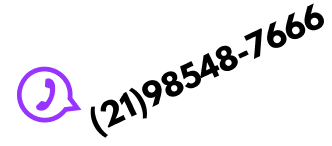
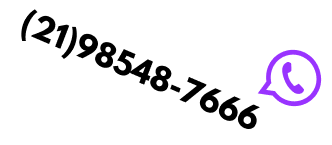
ajustes na pagina Contato

Changed region(s): [[0.0602, 0.0276, 0.994, 0.9379], [0.0301, 0.4414, 0.241, 0.8552]]

diff --git a/paginas/contato.html b/paginas/contato.html
@@ -40,15 +40,15 @@
             <a id="GET-email-link" href="mailto:marinamicas@gmail.com?Subject=Contato%20pelo%20Sistema%20Qualquer&Body=" class="clique-enviar"></a>
           </form>
         
-          <a href="https://wa.me/5521985487666?Sua%20mensagem%20aqui!" class="item_whatsapp_contato" title="Acessar whatsapp da Marina Micas">
+          <a href="https://wa.me/5521985487666?Sua%20mensagem%20aqui!" class="item_whatsapp_contato" title="Acessar whatsapp da Marina Micas" target="_blank">
             <img src="../imagens/whatsapp.png" alt="Ícone roxo do whatsapp com o número (21) 98548-7666" />
           </a>
 
-          <a href="https://www.linkedin.com/in/marina-micas-jardim-703b3316/" class="item_linkedin_contato" title="Acessar linkedin da Marina Micas">
+          <a href="https://www.linkedin.com/in/marina-micas-jardim-703b3316/" class="item_linkedin_contato" title="Acessar linkedin da Marina Micas" target="_blank">
             <img src="../imagens/linkedin.png" alt="Ícone roxo do linkedin com a minha foto de perfil do linkedin" />
           </a>
 
-          <a href="https://www.instagram.com/micasdesigner/" class="item_instagram_contato" title="Acessar instagram da Marina Micas">
+          <a href="https://www.instagram.com/micasdesigner/" class="item_instagram_contato" title="Acessar instagram da Marina Micas" target="_blank">
             <img src="../imagens/instagram.png" alt="Ícone roxo do instagram com meu id @micasdesigner do instagram" />
           </a>
       </div>

diff --git a/estilos/form.css b/estilos/form.css
@@ -6,6 +6,7 @@
     box-sizing: border-box;
     border-radius: 9px;
     resize: none;
+    padding: 10px;
 }
 
 .clique-enviar {

diff --git a/estilos/botao.css b/estilos/botao.css
@@ -30,6 +30,7 @@
     font-size: 18px;
     line-height: 22px;
     color: #FFFFFF;
+    cursor: pointer;
 }
 
 a {
